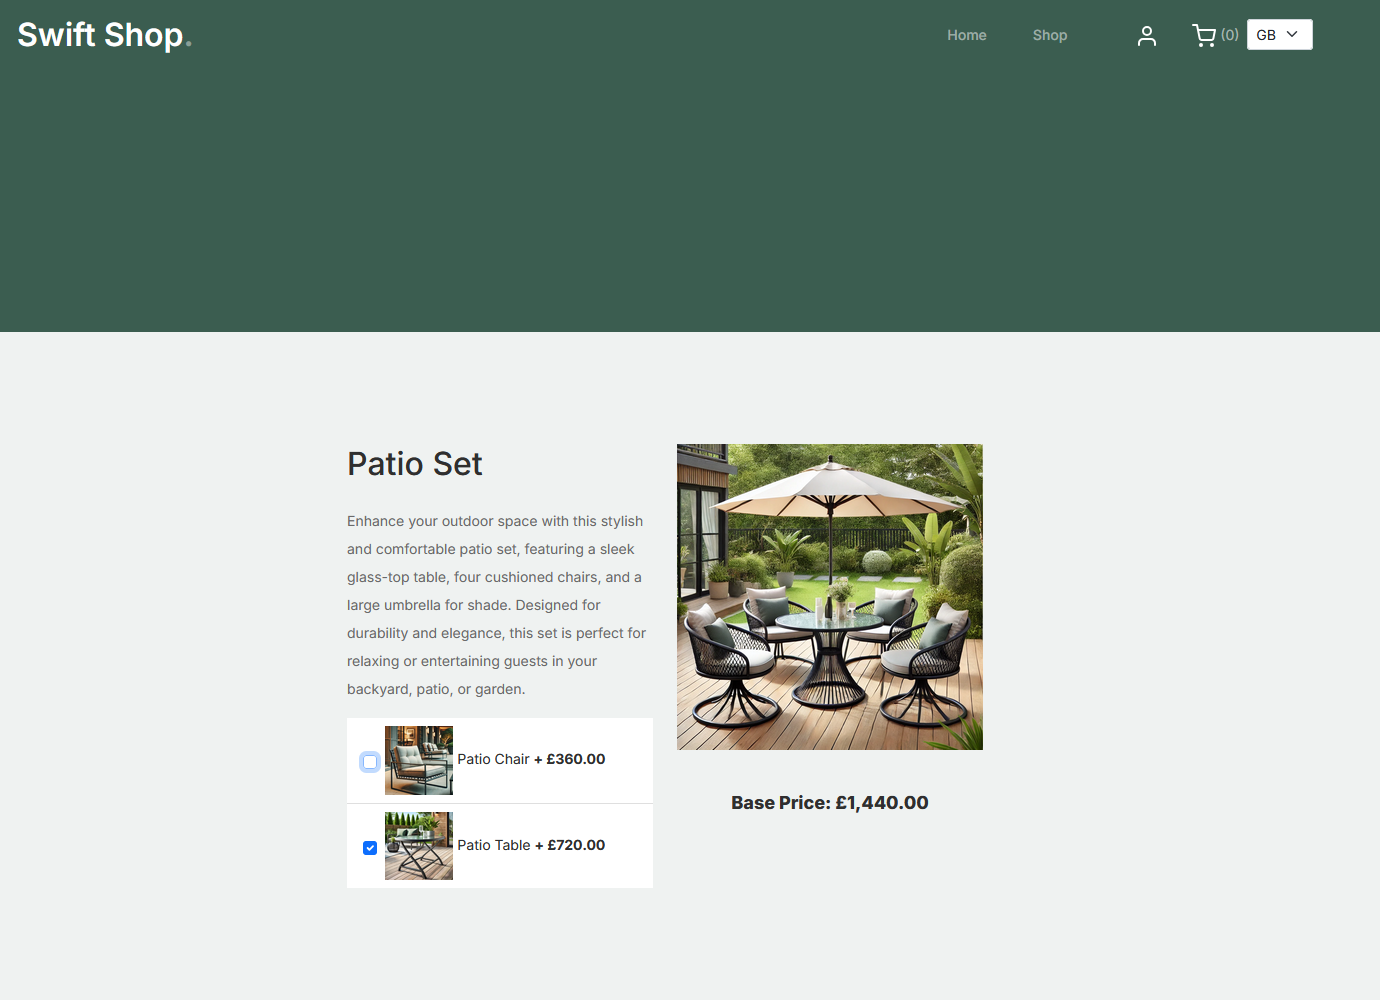
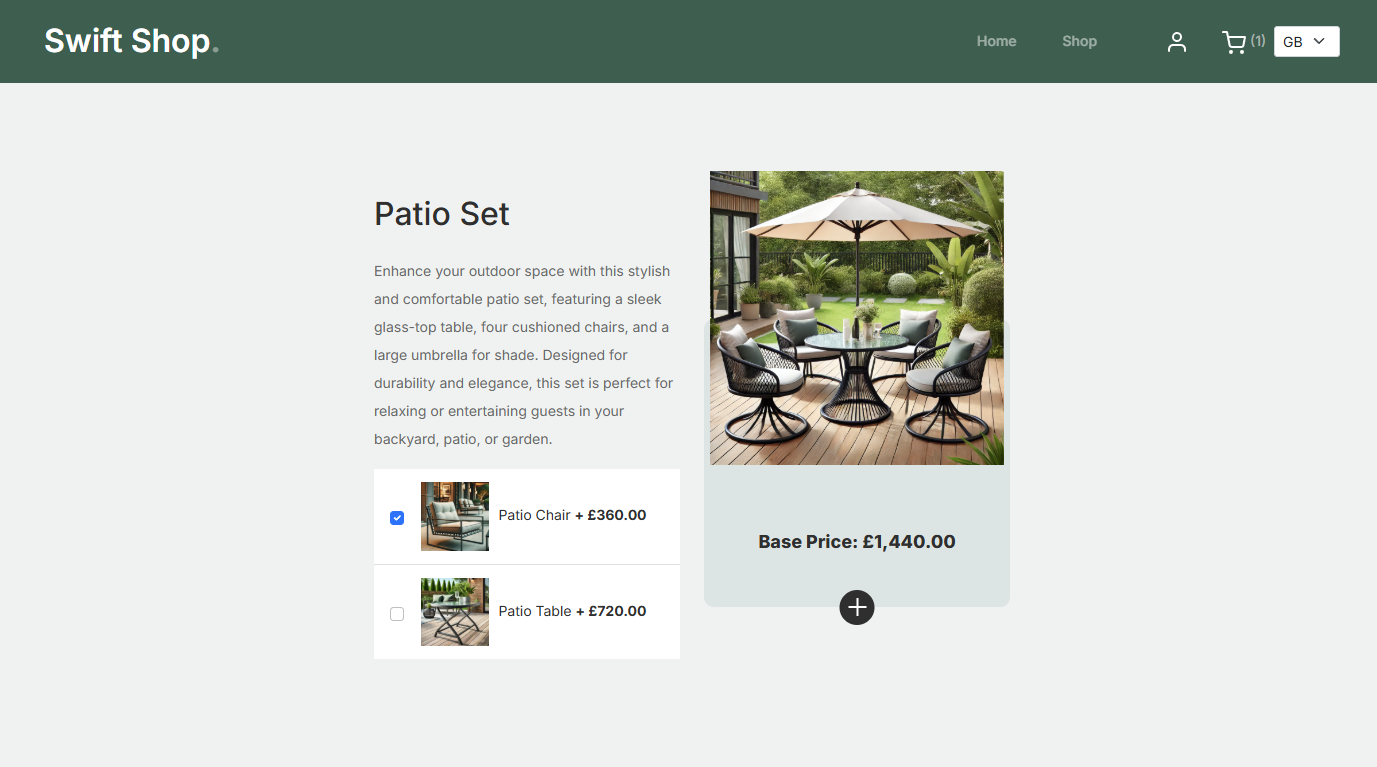
Updated the product bundles how too guide

diff --git a/15/umbraco-commerce/how-to-guides/product-bundles.md b/15/umbraco-commerce/how-to-guides/product-bundles.md
@@ -1,79 +1,102 @@
-# Product Bundles
+---
+description: Learn how to implement product bundles in Umbraco Commerce.
+---
 
-When you need to create a product with multiple sub-products, you can use the
-bundling concept to create a final order line as a composite order line of the
-selected primary product and its sub-product options.
+# Implementing Product Bundles
 
-The following use case is not mandatory when working with bundles, as any product can be a bundled one.
+Product bundles are Umbraco Commerces' way of creating composite products. This feature allows you to create a product that consists of multiple sub-products. The sub-products can be optional or mandatory, and you can define the quantity of each sub-product. The final order line will be a composite order line of the selected primary product and its sub-product options.
 
-## Backoffice Configuration
+{% hint style="info" %}
+Whilst this guide is not a direct follow on from the [getting started tutorial](../tutorials/build-a-store/overview.md), it is assumed that your store is setup in a similar structure.
+{% endhint %}
 
-For our bundle content structure, we will use a standard product page with a
-structure that allows as child nodes a product variant type.
+## Product Setup
 
-![product-variant-details](images/product-bundles/product-variant-details.png)
+To create a product bundle, you need to create a primary product with multiple sub-products. This can be achieved in multiple ways, but the most common approach is to create a product page with a structure that allows child nodes of a product variant type.
 
-The bundle content tree will contain a bundle page with variant elements as children.
+1. In the backoffice, navigate to the settings section
+2. Create a document type for your primary product.
 
-![product-variant-children](images/product-bundles/product-variant-children.png)
+![Bundle Document Type](images/product-bundles/bundle-document-type.png)
 
-## Product Bundle Page
+2. Create a document type for your sub-products.
+
+![Product Variant Details](images/product-bundles/product-variant-details.png)
+
+3. Update your primary product document type to allow child nodes of the sub-product type.
+
+![Product Variant Children](images/product-bundles/bundle-document-type-structure.png)
+
+## Content Configuration
+
+Our bundle content tree will contain a bundle page with variant elements as children.
+
+1. In the backoffice, navigate to the content section
+2. Create a new product page with the primary product document type
+3. Add variant elements as children
+
+![Product Variant Children](images/product-bundles/product-variant-children.png)
+
+## Frontend Configuration
 
 Our base product page will display the details of the product with a list of variants that can be used as addons.
 
-![product-bundles](images/product-bundles/product-bundles.png)
-
 ````csharp
-<div class="container">
-    @using (Html.BeginUmbracoForm("AddToCart", "Cart", FormMethod.Post, new { @name = "addToCartForm" }))
-    {
-        <div class="row justify-content-center">
-            <!-- Start Column 1 -->
-            <div class="col-md-12 col-lg-3 mb-5 mb-lg-0">
-                <h2 class="mb-4 section-title">@Model.Headline</h2>
-                <p class="mb-4">@Model.Description</p>
-
-                <ul class="list-group list-group-flush">
-                    @foreach (var item in Model.Children<ProductVariantDetails>())
-                    {
-                        <li class="list-group-item">
-                            <input id="chk_@item.Id" class="form-check-input me-1 align-middle" type="checkbox"
-                                value="@item.GetProductReference()" name="bundleOptionReferences[]" />
-                            <a href="javascript:void(0)" style="text-decoration: none;">
-                                <img class="w-25" src="@item.Image.GetCropUrl()" alt="@item.Name" />
-                                <label for="chk_@item.Id">@item.Name</label>
-                                <strong>+ @(await item.GetFormattedPriceAsync())</strong>
-                            </a>
-                        </li>
-                    }
-                </ul>
-            </div>
-            <!-- End Column 1 -->
-            <!-- Start Column 2 -->
-            <div class="col-12 col-md-4 col-lg-3 mb-5 mb-md-0">
-
-                @Html.Hidden("bundleProductReference", Model.GetProductReference())
-                @Html.Hidden("quantity", 1)
-
-                <a class="product-item" onclick="document.forms['addToCartForm'].submit()">
-                    <img src="@Model.Image?.Url()" class="img-fluid product-thumbnail" />
-                    <h3 class="product-title">@Model.Title</h3>
-                    <strong class="product-price">Base Price: @(await Model.GetFormattedPriceAsync())</strong>
-
-                    <span class="icon-cross">
-                        <img src="/images/cross.svg" class="img-fluid" />
-                    </span>
-                </a>
-            </div>
-            <!-- End Column 2 -->
+@using (Html.BeginUmbracoForm("AddToCart", "CartSurface", FormMethod.Post))
+{
+    @Html.Hidden("bundleProductReference", Model.GetProductReference())
+    @Html.Hidden("quantity", 1)
+            
+    <div>
+    
+        <h2>@Model.Headline</h2>
+        <p>@Model.Description</p>
+            
+        <div>
+            <img src="@Model.Image?.Url()" alt="@Model.Name" />
+            <h3>@Model.Title</h3>
+            <p>Base Price: @(await Model.GetFormattedPriceAsync())</p>
         </div>
-    }
-</div>
+        
+        <ul>
+            @foreach (var item in Model.Children<ProductVariantDetails>())
+            {
+                <li>
+                    <label>
+                        <input id="chk_@item.Id" class="form-check-input me-1 align-middle" type="checkbox"
+                            value="@item.GetProductReference()" name="bundleItemReferences[]" />
+                        <img src="@item.Image.GetCropUrl()" alt="@item.Name" />
+                        <h3>@item.Name</h3>
+                        <p>+ @(await item.GetFormattedPriceAsync())</p>
+                    </label>
+                </li>
+            }
+        </ul>
+        
+        <button type="submit">Add to Cart</button>
+        
+    </div>
+}
 ````
 
-## Add to Cart Functionality
+![Product with Bundle](images/product-bundles/product-bundles.png)
 
-Finally, in our add to cart functionality, based on the product reference (bundle or not), we will add the base product to cart under a bundle identifier, then the reference variant products as well.
+## Add to Cart Updates
+
+With our frontend setup, we need to update our add to cart functionality to handle the bundle product and its sub-products.
+
+1. Update the `AddToCartDto` object to include the bundle product reference and an array of variant product references.
+
+````csharp
+public class AddToCartDto
+{
+    ...
+    public string? BundleProductReference { get; set; }
+    public string[] BundleItemReferences { get; set; }
+}
+````
+
+2. Update the `AddToCart` method on your `CartSurfaceController` to handle the bundle product and its sub-products.
 
 ````csharp
 [HttpPost]
@@ -81,54 +104,53 @@ public async Task<IActionResult> AddToCart(AddToCartDto postModel)
 {
     try
     {
-        await _commerceApi.Uow.ExecuteAsync(async uow =>
+        await commerceApi.Uow.ExecuteAsync(async uow =>
         {
-            var store = CurrentPage.GetStore();
-            var order = await _commerceApi.GetOrCreateCurrentOrderAsync(store.Id)
+            StoreReadOnly store = CurrentPage!.GetStore()!;
+            Order? order = await commerceApi.GetOrCreateCurrentOrderAsync(store.Id)!
                 .AsWritableAsync(uow);
-
+            
             if (postModel.BundleProductReference is null)
             {
-                await order.AddProductAsync(postModel.ProductReference, decimal.Parse(postModel.Quantity));
-            } else
+                // Not a bundle so add the product directly
+                await order.AddProductAsync(postModel.ProductReference, postModel.Quantity);
+            } 
+            else // Bundle product so add the bundle and its items
             {
+                // Create a unique bundle id
                 var bundleId = Guid.NewGuid().ToString();
 
+                // Add the bundle product
                 await order.AddProductAsync(postModel.BundleProductReference, 1, bundleId);
 
-                foreach (var optionRef in postModel.BundleOptionReferences)
+                // Add the bundle items to the bundle
+                foreach (var itemRef in postModel.BundleItemReferences)
                 {
-                    await order.AddProductToBundleAsync(bundleId, optionRef, 1);
+                    await order.AddProductToBundleAsync(bundleId, itemRef, 1);
                 }
             }
-
-            ...
-
-            await _commerceApi.SaveOrderAsync(order);
-
+            
+            await commerceApi.SaveOrderAsync(order);
             uow.Complete();
         });
     }
     catch (ValidationException ex)
     {
-        ...
+        ModelState.AddModelError("productReference", "Failed to add product to cart");
+
+        return CurrentUmbracoPage();
     }
 
-    ...
+    TempData["successMessage"] = "Product added to cart";
+
+    return RedirectToCurrentUmbracoPage();
 }
 ````
 
-Our DTO object will be extended with the product bundle reference, and an array of variant product references.
+With the frontend and backend updates in place, when a user adds a product and selected variants to the cart, the order will be created with the primary product and its sub-products combined.
 
-````csharp
-public class AddToCartDto
-{
-    ...
+## Order Editor View
 
-    public string? BundleProductReference { get; set; }
+When an order includes a bundled product, the order editor will display the primary product and its sub-products as a composite order line.
 
-    public string[] BundleOptionReferences { get; set; }
-
-    ...
-}
-````
+![Order Editor](images/product-bundles/order-editor.png)
